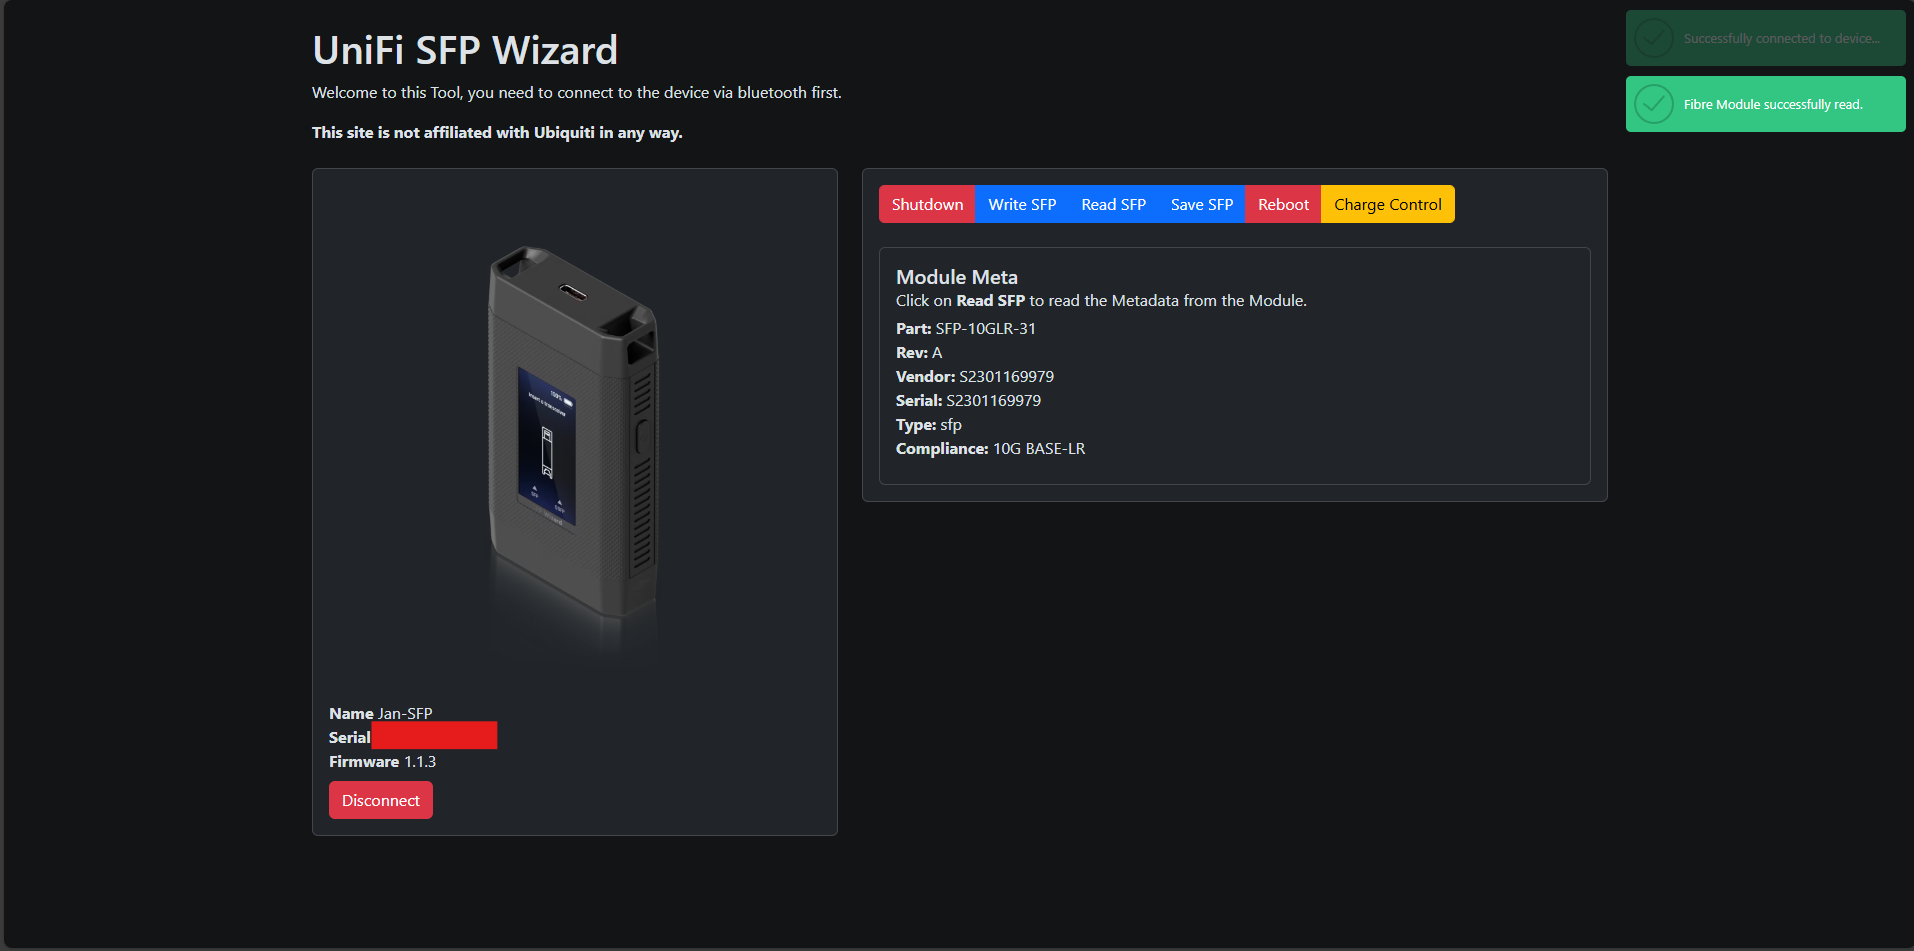
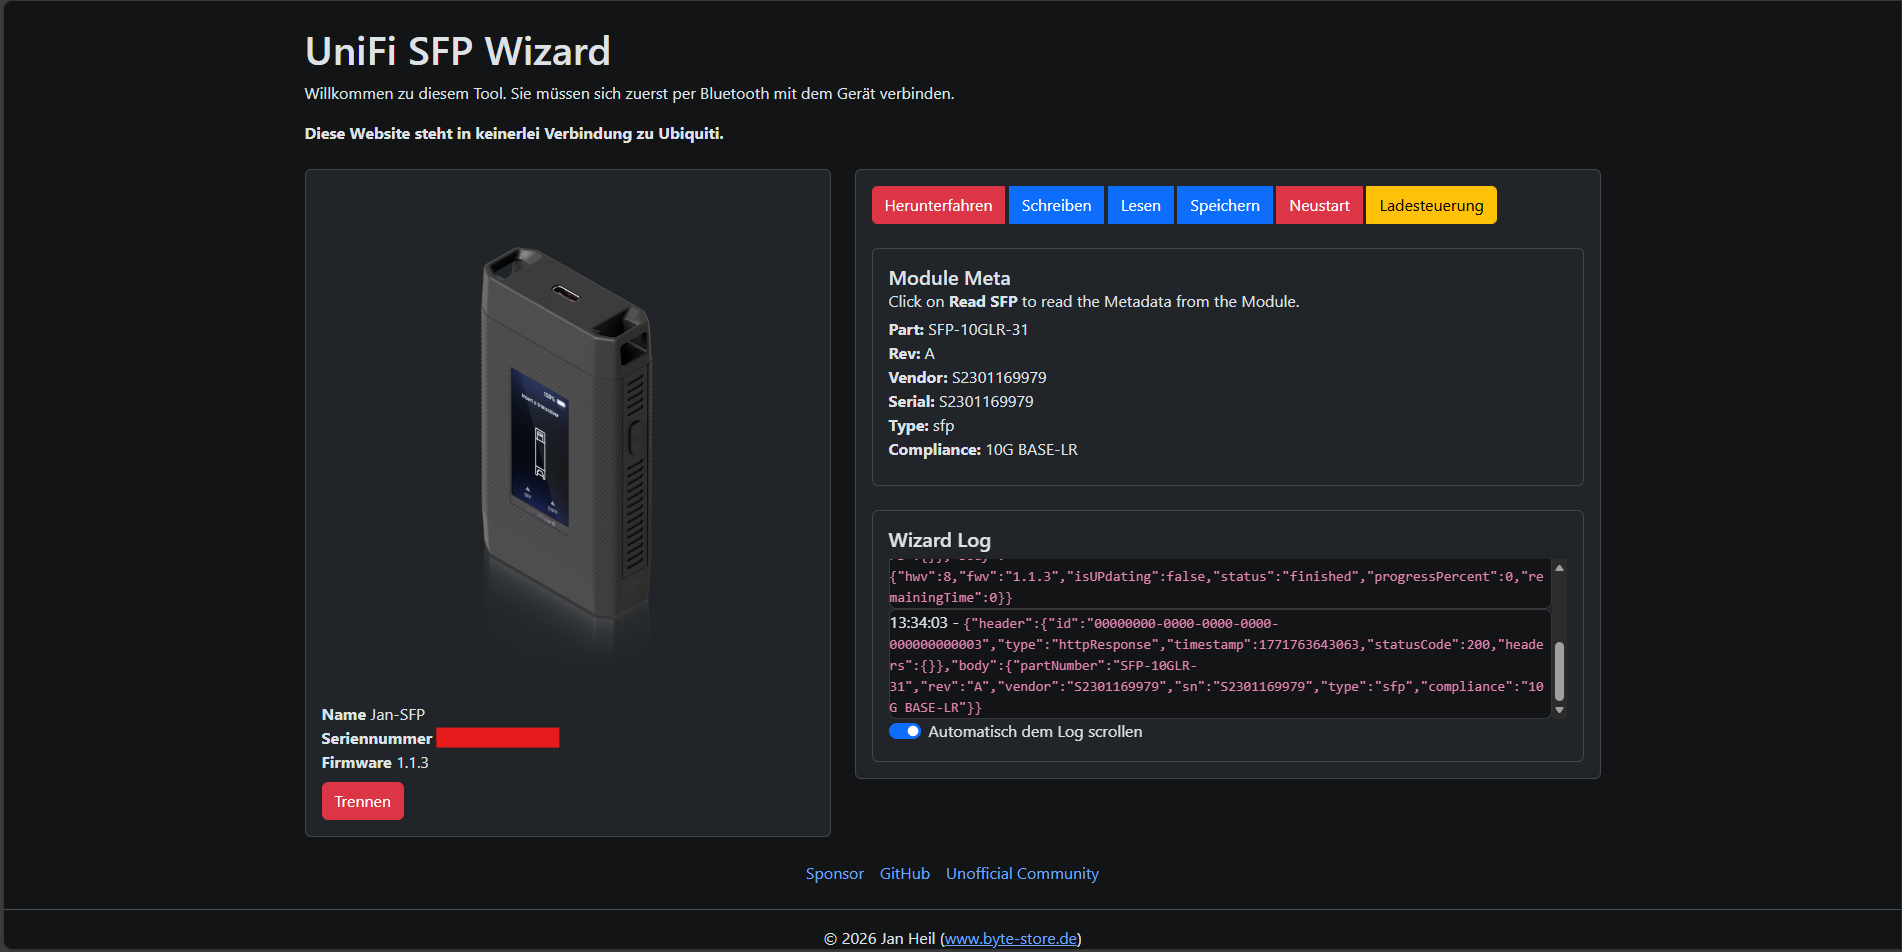
Update port in `webpack.config.js`, refine localization in `de-DE.json`, and enhance frame parsing in `Wizard.ts`
- Changed dev server port from 80 to 8080 in `webpack.config.js`.
- Adjusted `autoscroll` localization key in `de-DE.json`.
- Refactored `binmeDecode` in `Wizard.ts` for improved frame handling and added `Frame` interface in `Frame.ts`.
- Implemented `isTextData` and `parseFrames` utilities in `Wizard.ts` to improve data interpretation.
- Replaced redundant binary parsing logic with modular frame parsing.

diff --git a/src/Wizard.ts b/src/Wizard.ts
@@ -6,6 +6,7 @@ import {GATTUUID} from "./GATTUUID";
 import {APIRequest} from "./APIRequest";
 import {Confirm, Loading, Notify} from "notiflix";
 import {deflate, inflate} from "pako";
+import {Frame} from "./Frame";
 
 class Wizard {
     // Normaly it's UACC-SFP-Wizard don't know why Edge display it as Sfp Wizard.
@@ -631,6 +632,7 @@ class Wizard {
             console.log("API Response:", decoded);
 
             // Parse ID from Header.
+            // @ts-ignore
             const id = decoded.header.id;
 
             // Check if API Response contains callback ID.
@@ -809,56 +811,83 @@ class Wizard {
      * @return {{header: object, body: object}} An object containing the decoded header and body as parsed JSON objects.
      * @throws {Error} If the header or body type is invalid.
      */
-    private static binmeDecode(data: Uint8Array) {
-        let pos = 4; // skip transport header
+    private static binmeDecode(data: Uint8Array): { header: object; body: any; type: "json" | "text" | "hex" } {
+        const frames = Wizard.parseFrames(data);
 
-        // HEADER
-        const headerType = data[pos];
-        const headerCompressed = data[pos + 2] === 1;
-        const headerLen = data[pos + 8];
-        pos += 9;
-
-        const headerData = data.slice(pos, pos + headerLen);
-        pos += headerLen;
-
-        let headerJsonRaw = headerData;
-        if (headerCompressed) {
-            try {
-                headerJsonRaw = inflate(headerData);
-            } catch (e) {
-                console.warn("Header not compressed despite flag:", e);
-                headerJsonRaw = headerData;
-            }
+        if (frames.length === 0) {
+            throw new Error("No frames found");
         }
 
-        const header = JSON.parse(new TextDecoder().decode(headerJsonRaw));
+        const frame = frames[0];
+        const raw = frame.decompressed ?? frame.payload;
 
-        // BODY
-        const bodyType = data[pos];
-        const bodyCompressed = data[pos + 2] === 1;
-        const bodyLen =
-            (data[pos + 4] << 24) |
-            (data[pos + 5] << 16) |
-            (data[pos + 6] << 8) |
-            data[pos + 7];
+        // 1. Try JSON
+        try {
+            const json = JSON.parse(new TextDecoder().decode(raw));
 
-        pos += 8;
-
-        const bodyData = data.slice(pos, pos + bodyLen);
-
-        let bodyJsonRaw = bodyData;
-        if (bodyCompressed) {
-            try {
-                bodyJsonRaw = inflate(bodyData);
-            } catch (e) {
-                console.warn("Body not compressed despite flag:", e);
-                bodyJsonRaw = bodyData;
-            }
+            // @ts-ignore
+            return {header: frame, body: json, type: "json"};
+        } catch (e) {
+            console.warn("Failed to parse JSON:", e);
         }
 
-        const body = JSON.parse(new TextDecoder().decode(bodyJsonRaw));
+        // 2. Try text
+        if (Wizard.isTextData(raw)) {
+            // @ts-ignore
+            return {header: frame, body: new TextDecoder().decode(raw), type: "text"};
+        }
 
-        return {header, body};
+        // 3. Fallback: hex dump
+        const hexLines: string[] = [];
+        for (let i = 0; i < raw.length; i += 16) {
+            const chunk = raw.slice(i, i + 16);
+            const hex = Array.from(chunk).map(b => b.toString(16).padStart(2, "0")).join(" ");
+            hexLines.push(i.toString(16).padStart(4, "0") + ": " + hex);
+        }
+
+        // @ts-ignore
+        return {header: frame, body: hexLines.join("\n"), type: "hex"};
+    }
+
+
+    /**
+     * Parses an array of data into a sequence of frames.
+     *
+     * @param {Uint8Array} data - The input data to be parsed into frames.
+     * @return {Frame[]} An array of parsed frames, each containing frame properties such as command, flags, payload type, payload data, and decompressed payload if available.
+     */
+    private static parseFrames(data: Uint8Array): Frame[] {
+        const frames: Frame[] = [];
+        let pos = 0;
+
+        while (pos + 13 <= data.length) {
+            const frameLen = (data[pos] << 8) | data[pos + 1];
+            const cmd = (data[pos + 2] << 8) | data[pos + 3];
+            const flags = data[pos + 4];
+            const payloadType = data[pos + 12];
+
+            const payloadStart = pos + 13;
+            const payloadEnd = pos + frameLen;
+
+            if (payloadEnd > data.length) break;
+
+            const payload = data.slice(payloadStart, payloadEnd);
+
+            let decompressed: Uint8Array | undefined;
+            if (payload[0] === 0x78) {
+                try {
+                    decompressed = inflate(payload);
+                } catch (e) {
+                    console.warn("inflate failed:", e);
+                }
+            }
+
+            frames.push({cmd, flags, payloadType, payload, decompressed});
+
+            pos = payloadEnd;
+        }
+
+        return frames;
     }
 
 
@@ -1187,6 +1216,33 @@ class Wizard {
     private static hasAutoscroll(): boolean {
         return Wizard.autoscrollSwitch.is(":checked");
     }
+
+    /**
+     * Determines whether the given data is predominantly text-based.
+     * It analyzes the byte content and calculates the ratio of textual characters.
+     * If more than 90% of the data consists of text-compatible characters, it returns true.
+     *
+     * @param {Uint8Array} data - The byte array to analyze for text content.
+     * @return {boolean} Returns true if the data is predominantly text-based; otherwise, false.
+     */
+    private static isTextData(data: Uint8Array): boolean {
+        if (data.length === 0) return false;
+
+        let textChars = 0;
+
+        for (const b of data) {
+            if (
+                (b >= 0x20 && b <= 0x7e) || // printable ASCII
+                b === 0x0a || b === 0x0d || b === 0x09 || // \n \r \t
+                b >= 0x80 // UTF-8 continuation or multibyte
+            ) {
+                textChars++;
+            }
+        }
+
+        return textChars / data.length > 0.9;
+    }
+
 }
 
 new Wizard();

diff --git a/webpack.config.js b/webpack.config.js
@@ -23,6 +23,6 @@ module.exports = {
         static: {
             directory: path.join(__dirname, 'dist')
         },
-        port: 80
+        port: 8080
     }
 };

diff --git a/src/Frame.ts b/src/Frame.ts
@@ -1,0 +1,7 @@
+export interface Frame {
+    cmd: number;
+    flags: number;
+    payloadType: number;
+    payload: Uint8Array;
+    decompressed?: Uint8Array;
+}
